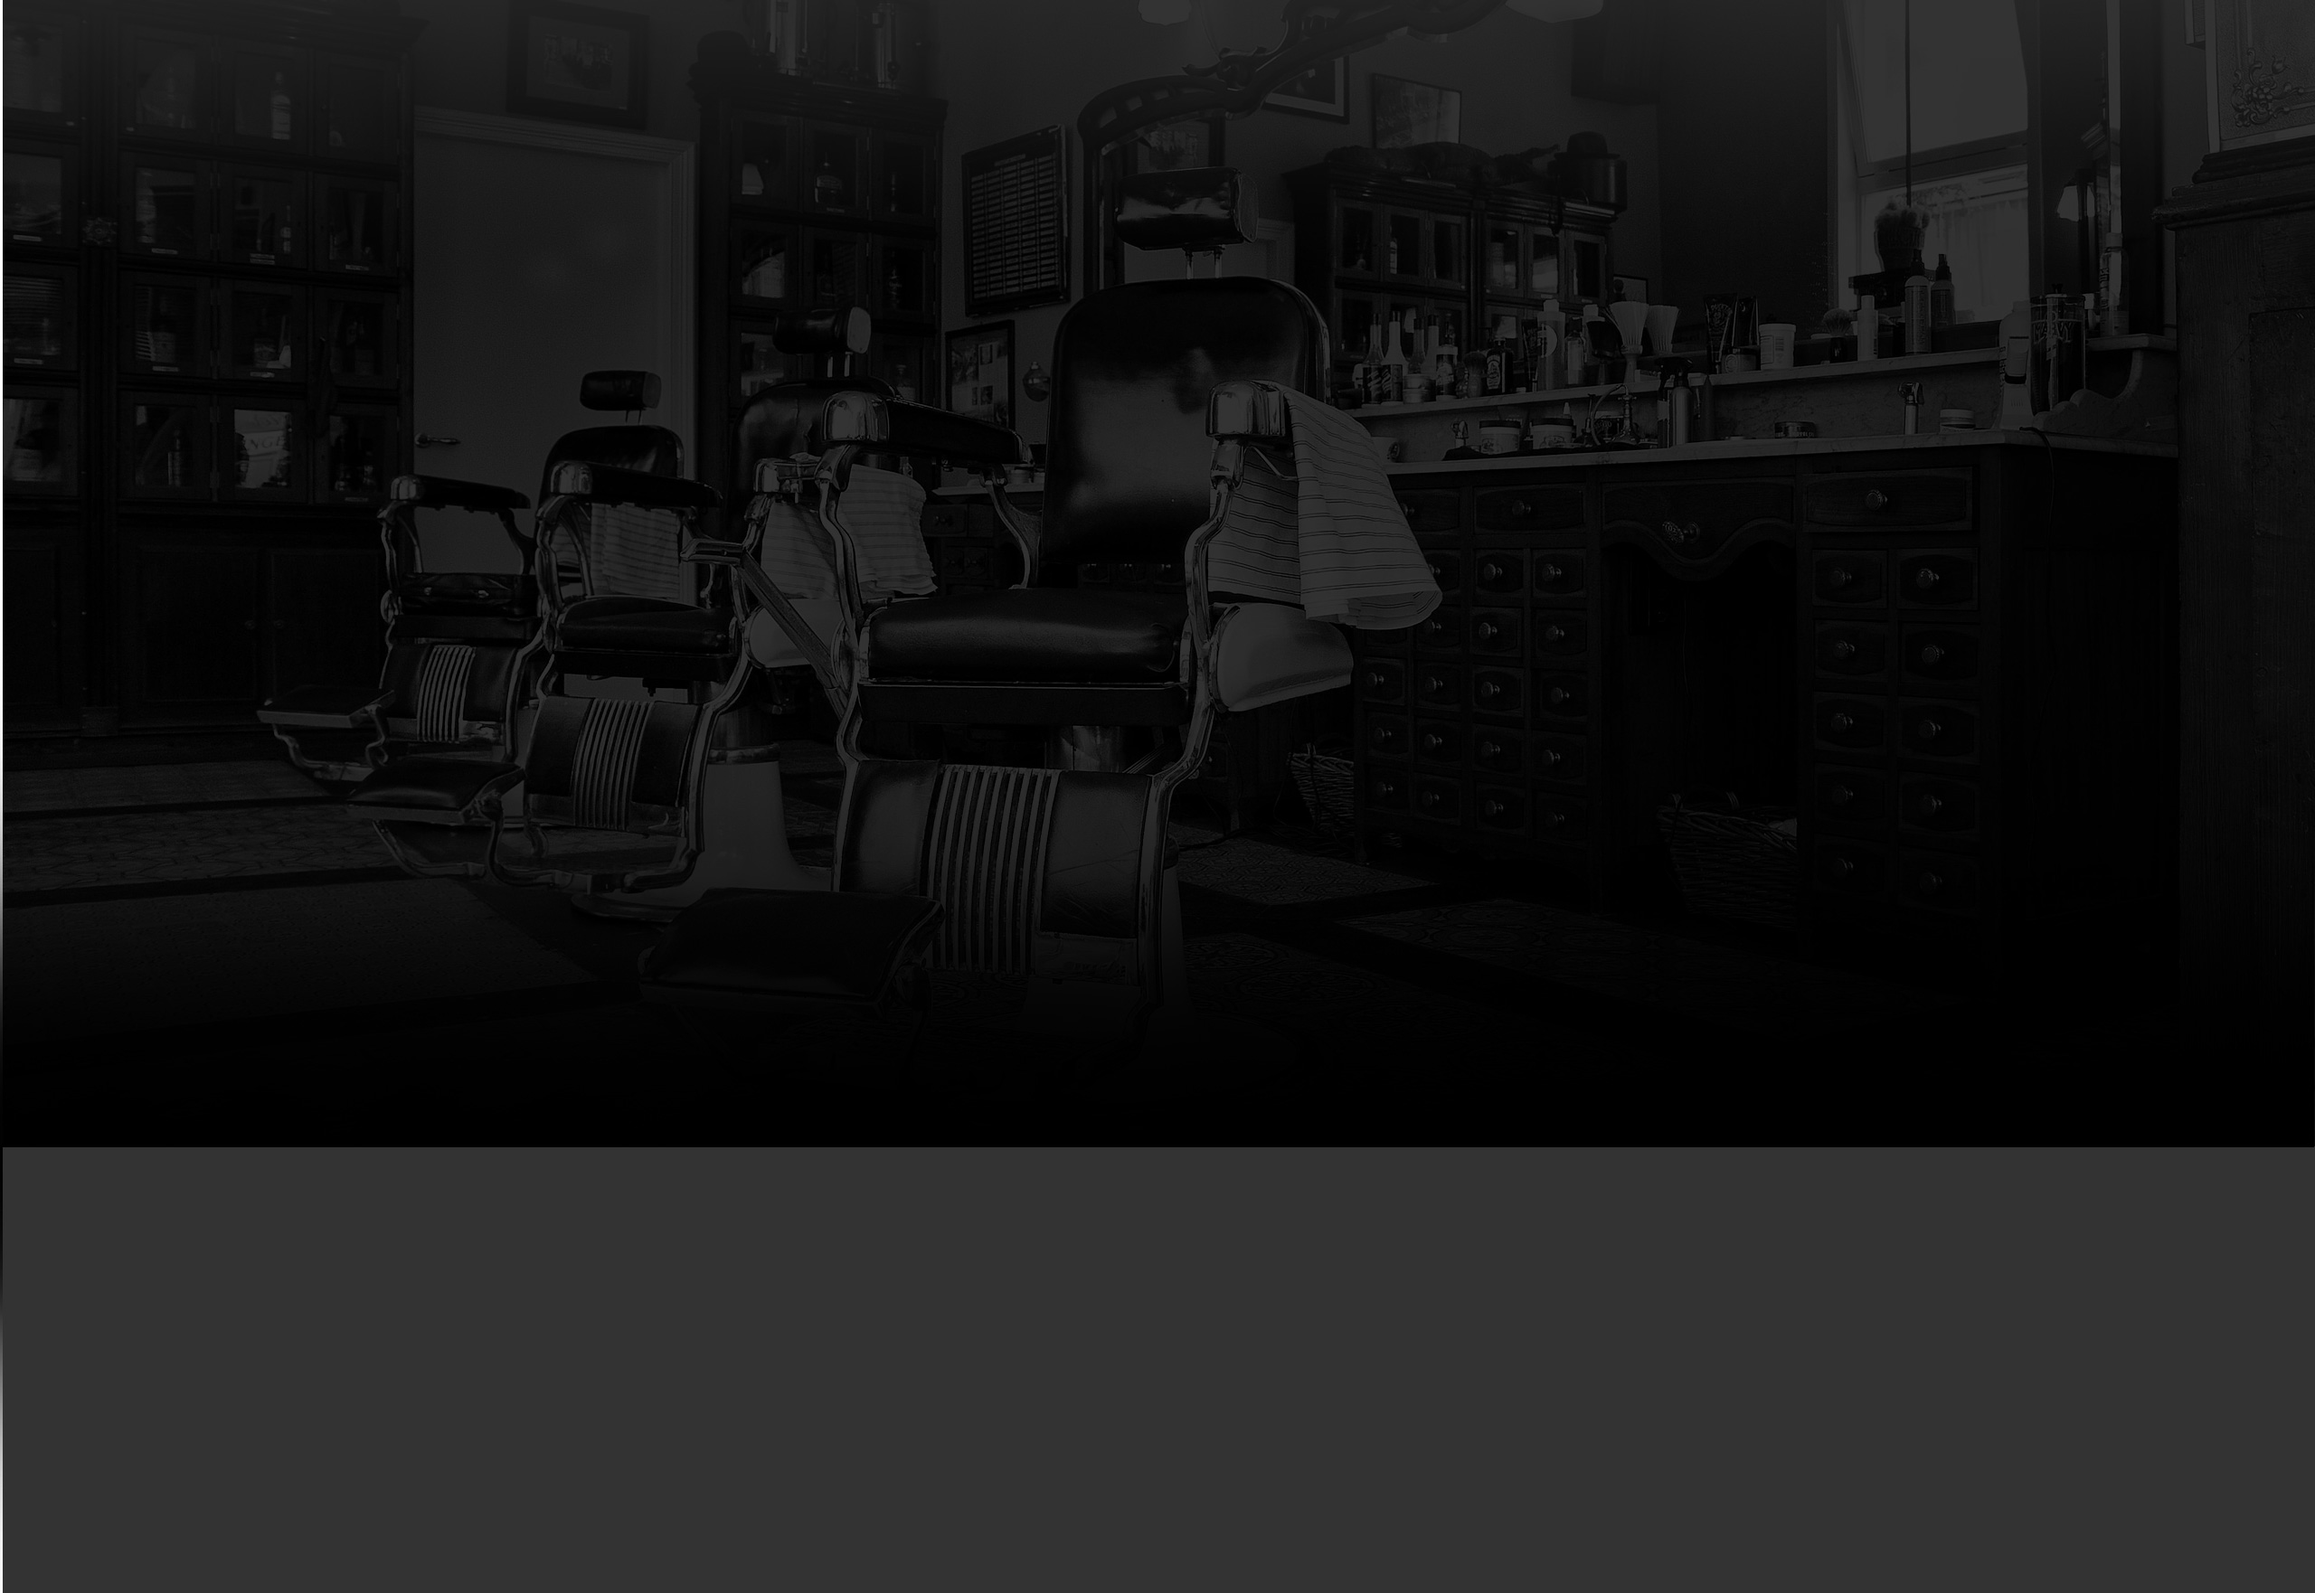
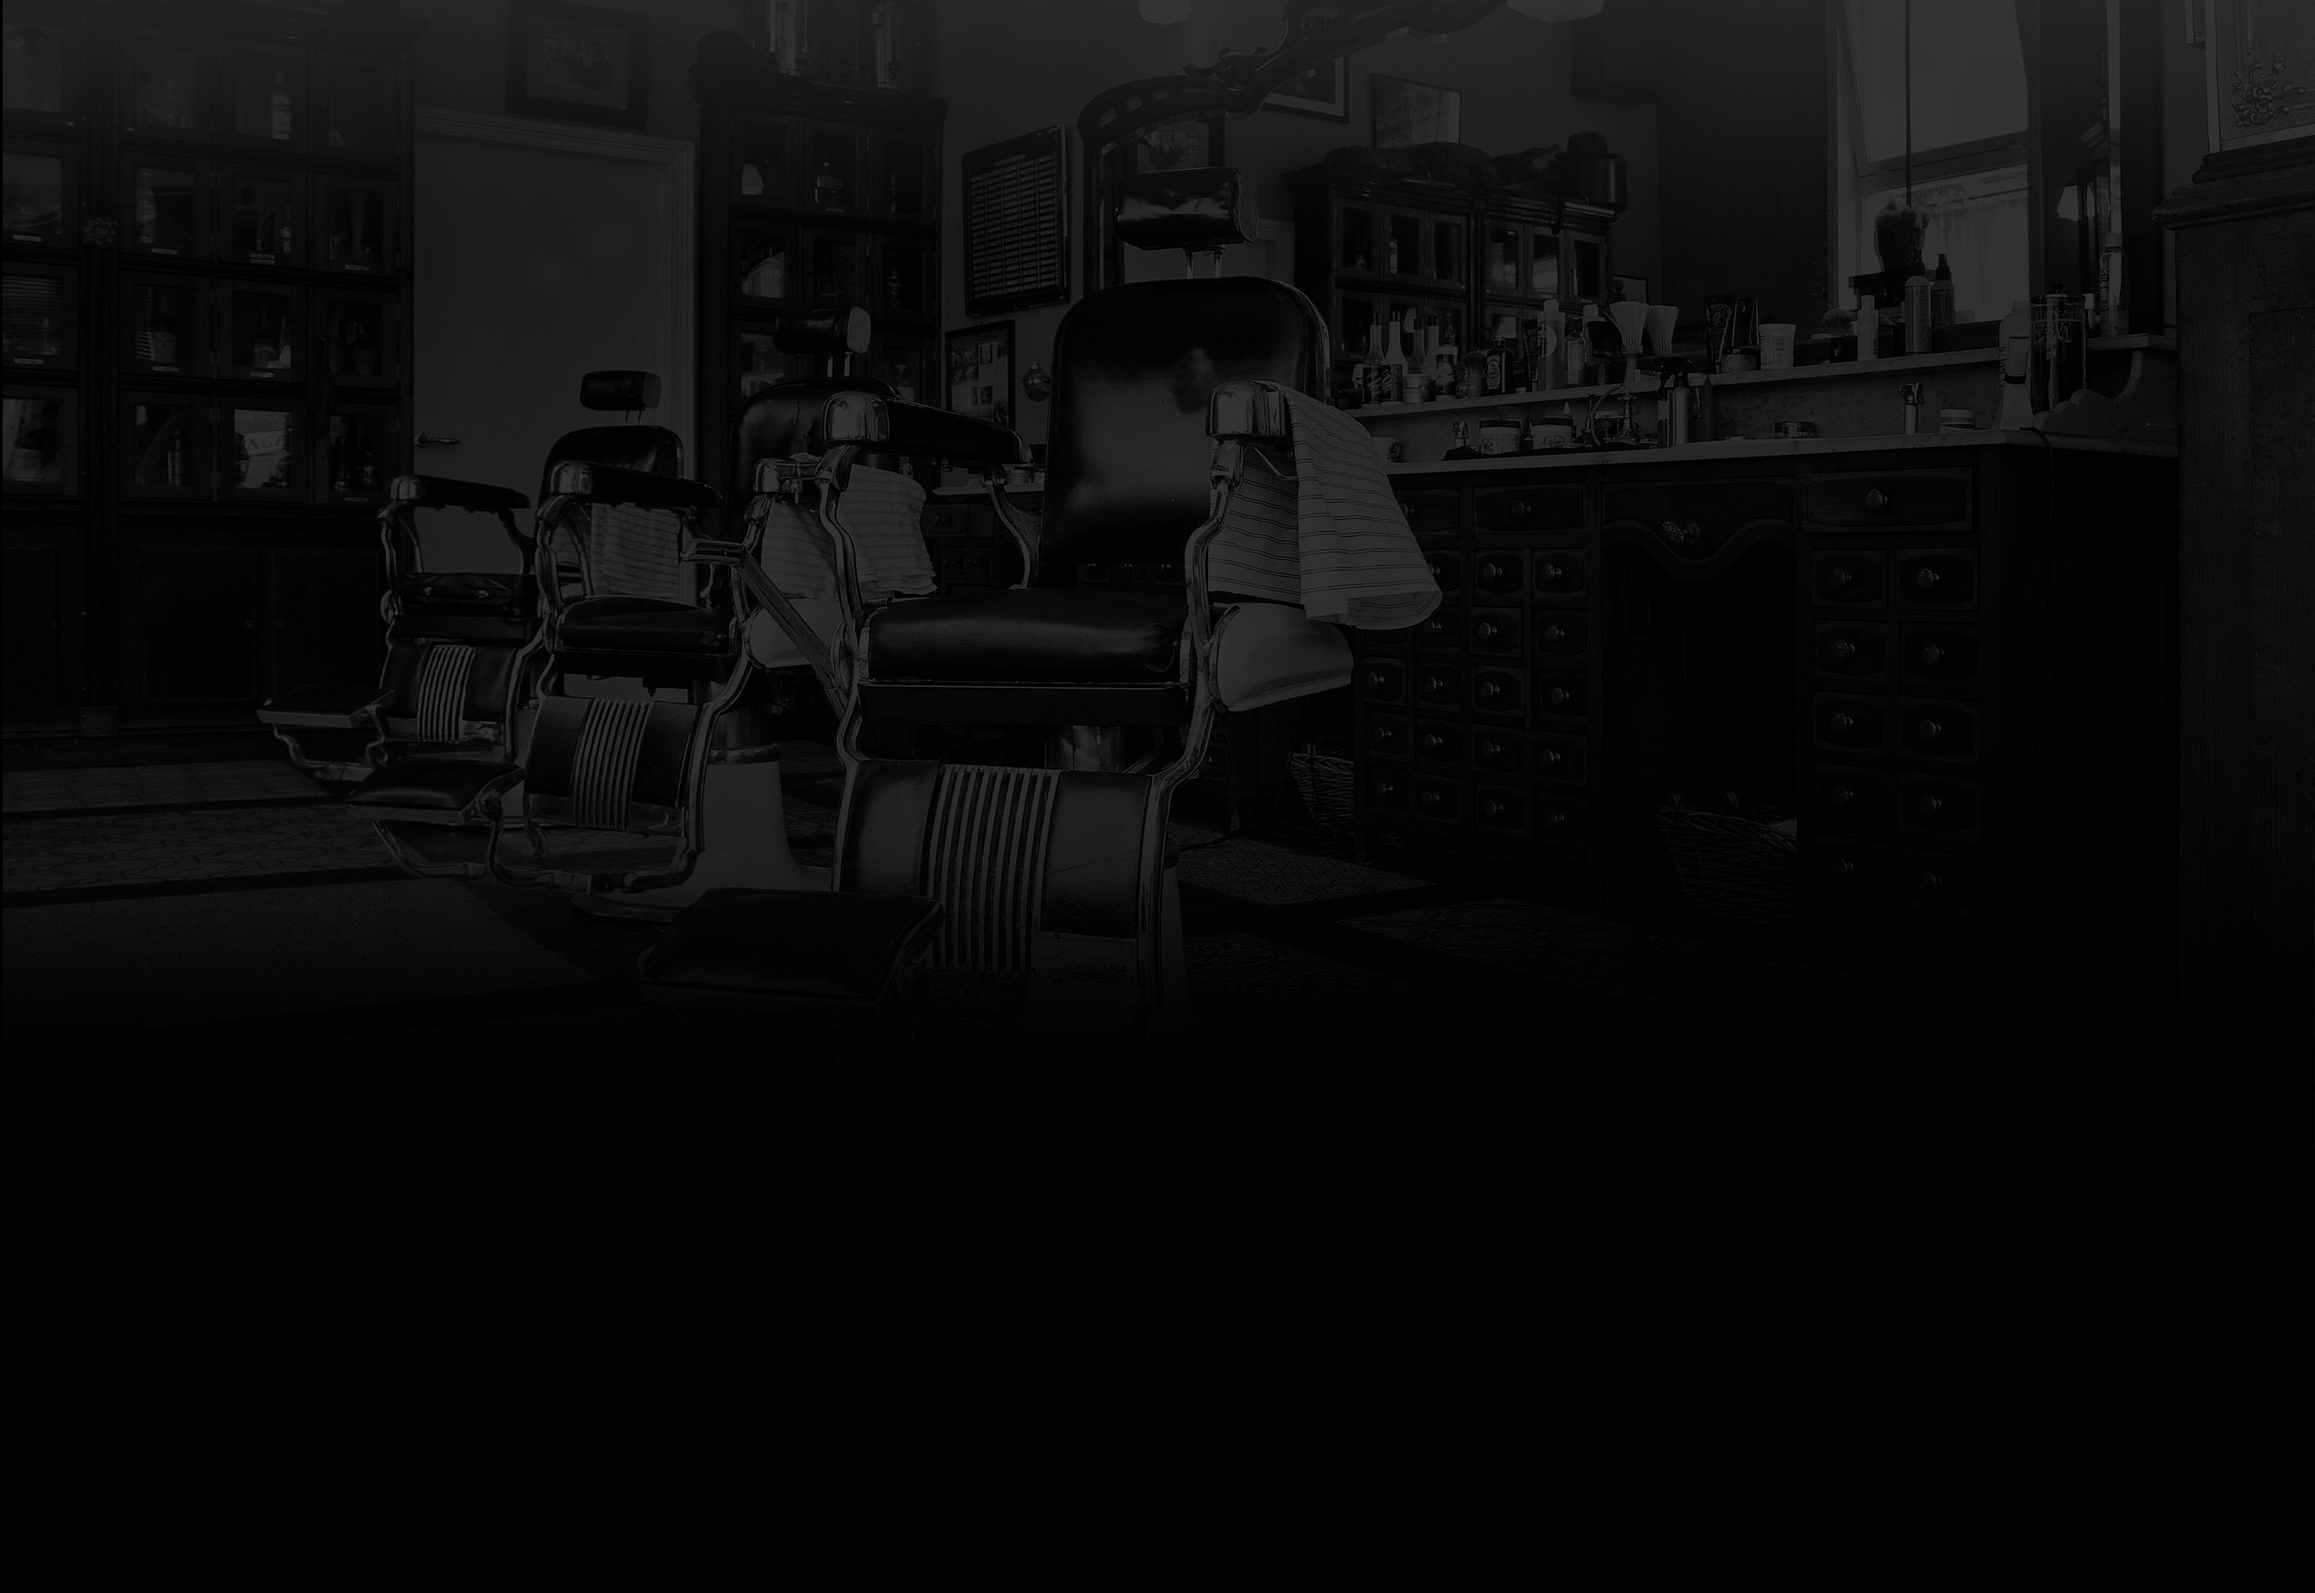
нарезана графика
нарезана графика для главной страницы

Changed region(s): [[0.0, 0.7179, 1.0, 1.0]]

diff --git a/css/main.css b/css/main.css
@@ -1,7 +1,7 @@
 body {
     font-family: 'PT Sans Narrow', sans-serif;
     color: #fff;
-    background-color: #242424;
+    background-color: #000000;
     background-image: url("../img/bg.jpg");
     background-position: center top;
     background-repeat: no-repeat;
